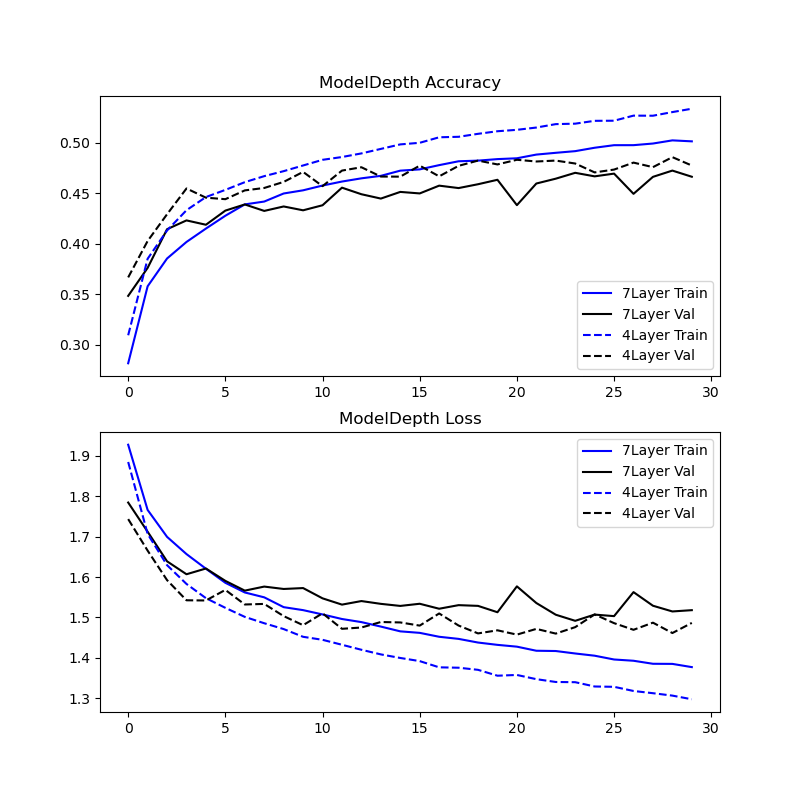
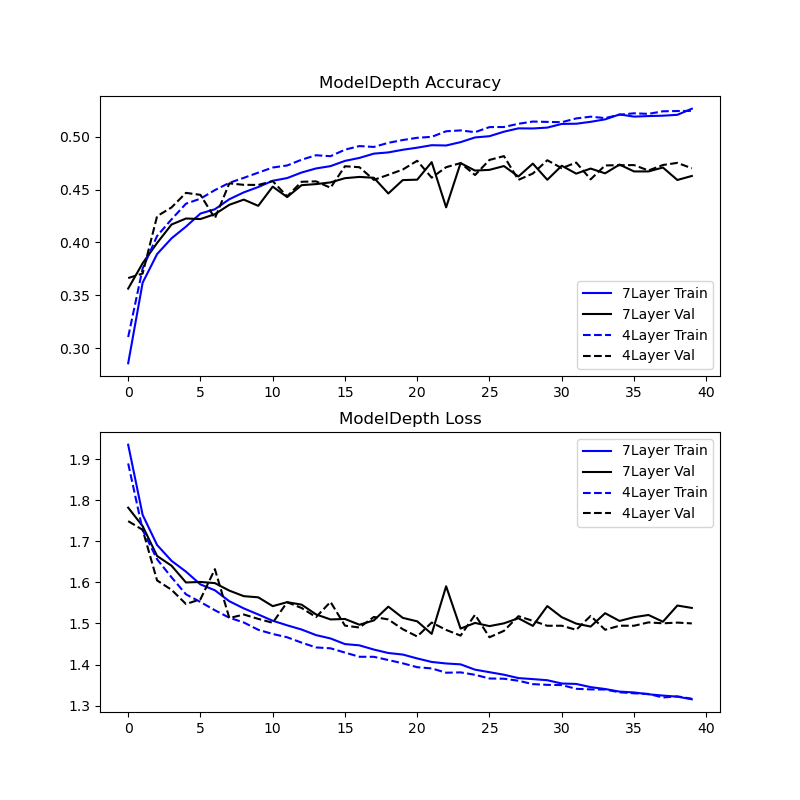
Adding experiment results and console readout. Minor fix to formatting on sxs reports.

diff --git a/mia_intro_imageclassifier.py b/mia_intro_imageclassifier.py
@@ -320,9 +320,9 @@ if __name__ == '__main__':
     # Init Var
     reports_10class_modelType = []  # data structure to compare model types (Conv2d vs Dense) for the 10class dataset
     reports_10class_denseModelDepth = []  # data structure to compare model depth for Dense NN model for 10class dataset
-    reports_10and4class_conv2d = []  # data structure to compare model depth for Dense NN model for 4class dataset
+    reports_denseModel_10and4class = []  # data structure to compare model depth for Dense NN model for 4class dataset
     batch_size = 50  # usually one of 32, 64, 128, ... dataset sample count must be entirely divisible by batch size
-    epochs = 39  # total number of epochs the experiment will run for
+    epochs = 40  # total number of epochs the experiment will run for
     epochs_range = range(epochs)  # used for plotting figures later, assumes all models are trained for E epochs
     epochs_per_report = 2  # how often should the privacy attacks be performed
     learning_rate = 0.001  # hyperparameter for all models
@@ -406,27 +406,27 @@ if __name__ == '__main__':
     # Experiment: Compare experiment 1 dense model 10 class dataset, against the same model but for a 4class dataset
     # (Deprecated) Experiment: Compare Experiment 1 models trained on a 4 class dataset (4 first classes from 10class dataset)
     # these models cannot be reused from experiment 1 because we need 4 logtis here instead of 10 from experiment 1
-    dense_6layer_4label = dense_nn_builder(
-        input_shape=train_4_x.shape[1:],
-        num_classes=4,
-        neurons_per_layer=64,
-        depth=6,
-        activation='relu',
-    )
-    # dense_3layer_4label = dense_nn_builder(   # DEPRECATED EXPERIMENT - no longer using dense depth comparison for 4 class, no need to create this model
+    # dense_6layer_4label = dense_nn_builder(  # DEPRECATED EXPERIMENT - no longer using dense depth comparison for 4 class, no need to create this model
     #     input_shape=train_4_x.shape[1:],
     #     num_classes=4,
     #     neurons_per_layer=64,
-    #     depth=3,
+    #     depth=6,
     #     activation='relu',
     # )
+    dense_3layer_4label = dense_nn_builder(
+        input_shape=train_4_x.shape[1:],
+        num_classes=4,
+        neurons_per_layer=64,
+        depth=3,
+        activation='relu',
+    )
 
     print(f'\n\nReport model architectures')
     conv_3layer_10label.summary()
     dense_3layer_10label.summary()
     dense_6layer_10label.summary()
-    dense_6layer_4label.summary()
-    # dense_3layer_4label.summary()
+    # dense_6layer_4label.summary()
+    dense_3layer_4label.summary()
 
     # Train Models and run MIA while doing so via a callback
     print(f'\n\nTrain models and test at frequency: every {epochs_per_report} epoch ]\n')
@@ -435,7 +435,7 @@ if __name__ == '__main__':
     # train and append MIA report for 10class dense NN 3  layer
     callback = PrivacyMetrics(
         epochs_per_report=epochs_per_report,
-        model_name="denseNN_3layer",
+        model_name="10c_denseNN_3layer",
         train_input=train_10_x,
         train_labels_indices=train_10_y_indices,
         val_input=validation_10_x,
@@ -452,11 +452,11 @@ if __name__ == '__main__':
     )
     reports_10class_modelType.extend(callback.attack_results)  # add results to the model type 10class dataset results
     reports_10class_denseModelDepth.extend(callback.attack_results)  # add results to the model depth 10c dataset result
-    reports_10and4class_conv2d.extend(callback.attack_results)   # add results to static model, 10-4 class comparison
+    reports_denseModel_10and4class.extend(callback.attack_results)   # add results to static model, 10-4 class comparison
     # train and append MIA report for 10class conv2d 3  layer
     callback = PrivacyMetrics(
         epochs_per_report=epochs_per_report,  # signals how often the privacy attacks should be run on the model
-        model_name="conv2d_3layer",  # model codename internally
+        model_name="10c_conv2d_3layer",  # model codename internally
         train_input=train_10_x,
         train_labels_indices=train_10_y_indices,
         val_input=validation_10_x,
@@ -478,7 +478,7 @@ if __name__ == '__main__':
     # train and append MIA report for 10class dense 6layer depth model
     callback = PrivacyMetrics(
         epochs_per_report=epochs_per_report,
-        model_name="denseNN_6layer",
+        model_name="10c_denseNN_6layer",
         train_input=train_10_x,
         train_labels_indices=train_10_y_indices,
         val_input=validation_10_x,
@@ -502,34 +502,15 @@ if __name__ == '__main__':
     # later, I changed this to be a comparison holding model type and depth constant, to demonstrate how more classes
     # leads to higher MIA scores, because there is more information that the model exposes to an attacker
     # # train and append MIA report for 4class 3layer dense NN  (commented this block out)
-    # callback = PrivacyMetrics(
-    #     epochs_per_report=epochs_per_report,
-    #     model_name="4c_denseNN_3layer",
-    #     train_input=train_4_x,
-    #     train_labels_indices=train_4_y_indices,
-    #     val_input=validation_4_x,
-    #     val_labels_indices=validation_4_y_indices,
-    # )
-    # history_4class_depth_3layer = dense_3layer_4label.fit(
-    #     train_4_x,
-    #     train_4_y,
-    #     batch_size=batch_size,
-    #     validation_data=(validation_4_x, validation_4_y),
-    #     epochs=epochs,
-    #     callbacks=[callback],
-    # )
-    # reports_10and4class_conv2d.extend(callback.attack_results)
-    
-    # train and append MIA report for 4class conv2d 3  layer
     callback = PrivacyMetrics(
         epochs_per_report=epochs_per_report,
-        model_name="4c_denseNN_6layer",
+        model_name="4c_denseNN_3layer",
         train_input=train_4_x,
         train_labels_indices=train_4_y_indices,
         val_input=validation_4_x,
         val_labels_indices=validation_4_y_indices,
     )
-    history_4class_depth_6layer = dense_6layer_4label.fit(
+    history_4class_depth_3layer = dense_3layer_4label.fit(
         train_4_x,
         train_4_y,
         batch_size=batch_size,
@@ -537,7 +518,27 @@ if __name__ == '__main__':
         epochs=epochs,
         callbacks=[callback],
     )
-    reports_10and4class_conv2d.extend(callback.attack_results)
+    reports_denseModel_10and4class.extend(callback.attack_results)
+
+    # Deprecated experiment
+    # # train and append MIA report for 4class conv2d 3  layer
+    # callback = PrivacyMetrics(
+    #     epochs_per_report=epochs_per_report,
+    #     model_name="4c_denseNN_6layer",
+    #     train_input=train_4_x,
+    #     train_labels_indices=train_4_y_indices,
+    #     val_input=validation_4_x,
+    #     val_labels_indices=validation_4_y_indices,
+    # )
+    # history_4class_depth_6layer = dense_6layer_4label.fit(
+    #     train_4_x,
+    #     train_4_y,
+    #     batch_size=batch_size,
+    #     validation_data=(validation_4_x, validation_4_y),
+    #     epochs=epochs,
+    #     callbacks=[callback],
+    # )
+    # reports_denseModel_10and4class.extend(callback.attack_results)
 
     # Generate plots for experiment result visualization & demo sampling of the datasets
     # Report MIA results for model experiments
@@ -609,29 +610,29 @@ if __name__ == '__main__':
     # Sxs Reporting - 4class dataset, model type experiments
     # Model loss/accuracy vs epoch, model MIA results vs epoch. 4class dataset, dense3layer vs conv2d 3 layer
     # Plot MIA results
-    exp4class_results = AttackResultsCollection(reports_10and4class_conv2d)
+    exp4class_results = AttackResultsCollection(reports_denseModel_10and4class)
     epoch_plot = privacy_report.plot_by_epochs(
         exp4class_results,
         privacy_metrics=privacy_metrics
     )
-    epoch_plot.savefig(current_directory / 'exp4Class_mia_results.png')
+    epoch_plot.savefig(current_directory / 'exp10C_4C_mia_results.png')
     # Plot model training accuracy & loss vs training epoch
     plt.figure(figsize=(8, 8))
     plt.subplot(2, 1, 1)
-    plt.plot(epochs_range, history_4class_depth_6layer.history['accuracy'], color='blue', label='4class Train')
-    plt.plot(epochs_range, history_4class_depth_6layer.history['val_accuracy'], color='black', label='4class Val')
+    plt.plot(epochs_range, history_4class_depth_3layer.history['accuracy'], color='blue', label='4class Train')
+    plt.plot(epochs_range, history_4class_depth_3layer.history['val_accuracy'], color='black', label='4class Val')
     plt.plot(epochs_range, history_10class_modelType_dense.history['accuracy'], color='blue', linestyle='dashed', label='10class Train ')
     plt.plot(epochs_range, history_10class_modelType_dense.history['val_accuracy'], color='black', linestyle='dashed', label='10class Val')
     plt.legend(loc='lower right')
     plt.title('Class Comparison Accuracy')
     plt.subplot(2, 1, 2)
-    plt.plot(epochs_range, history_4class_depth_6layer.history['loss'], color='blue', label='4class Train')
-    plt.plot(epochs_range, history_4class_depth_6layer.history['val_loss'], color='black', label='4class Val')
+    plt.plot(epochs_range, history_4class_depth_3layer.history['loss'], color='blue', label='4class Train')
+    plt.plot(epochs_range, history_4class_depth_3layer.history['val_loss'], color='black', label='4class Val')
     plt.plot(epochs_range, history_10class_modelType_dense.history['loss'], color='blue', linestyle='dashed', label='10class Train')
     plt.plot(epochs_range, history_10class_modelType_dense.history['val_loss'], color='black', linestyle='dashed', label='10class Val')
     plt.legend(loc='upper right')
     plt.title('Class Comparison Loss')
-    plt.savefig(current_directory / 'exp10C_4Class_training_results.png')
+    plt.savefig(current_directory / 'exp10C_4C_training_results.png')
     plt.show()
 
     # plot sampling of the 10-class dataset
